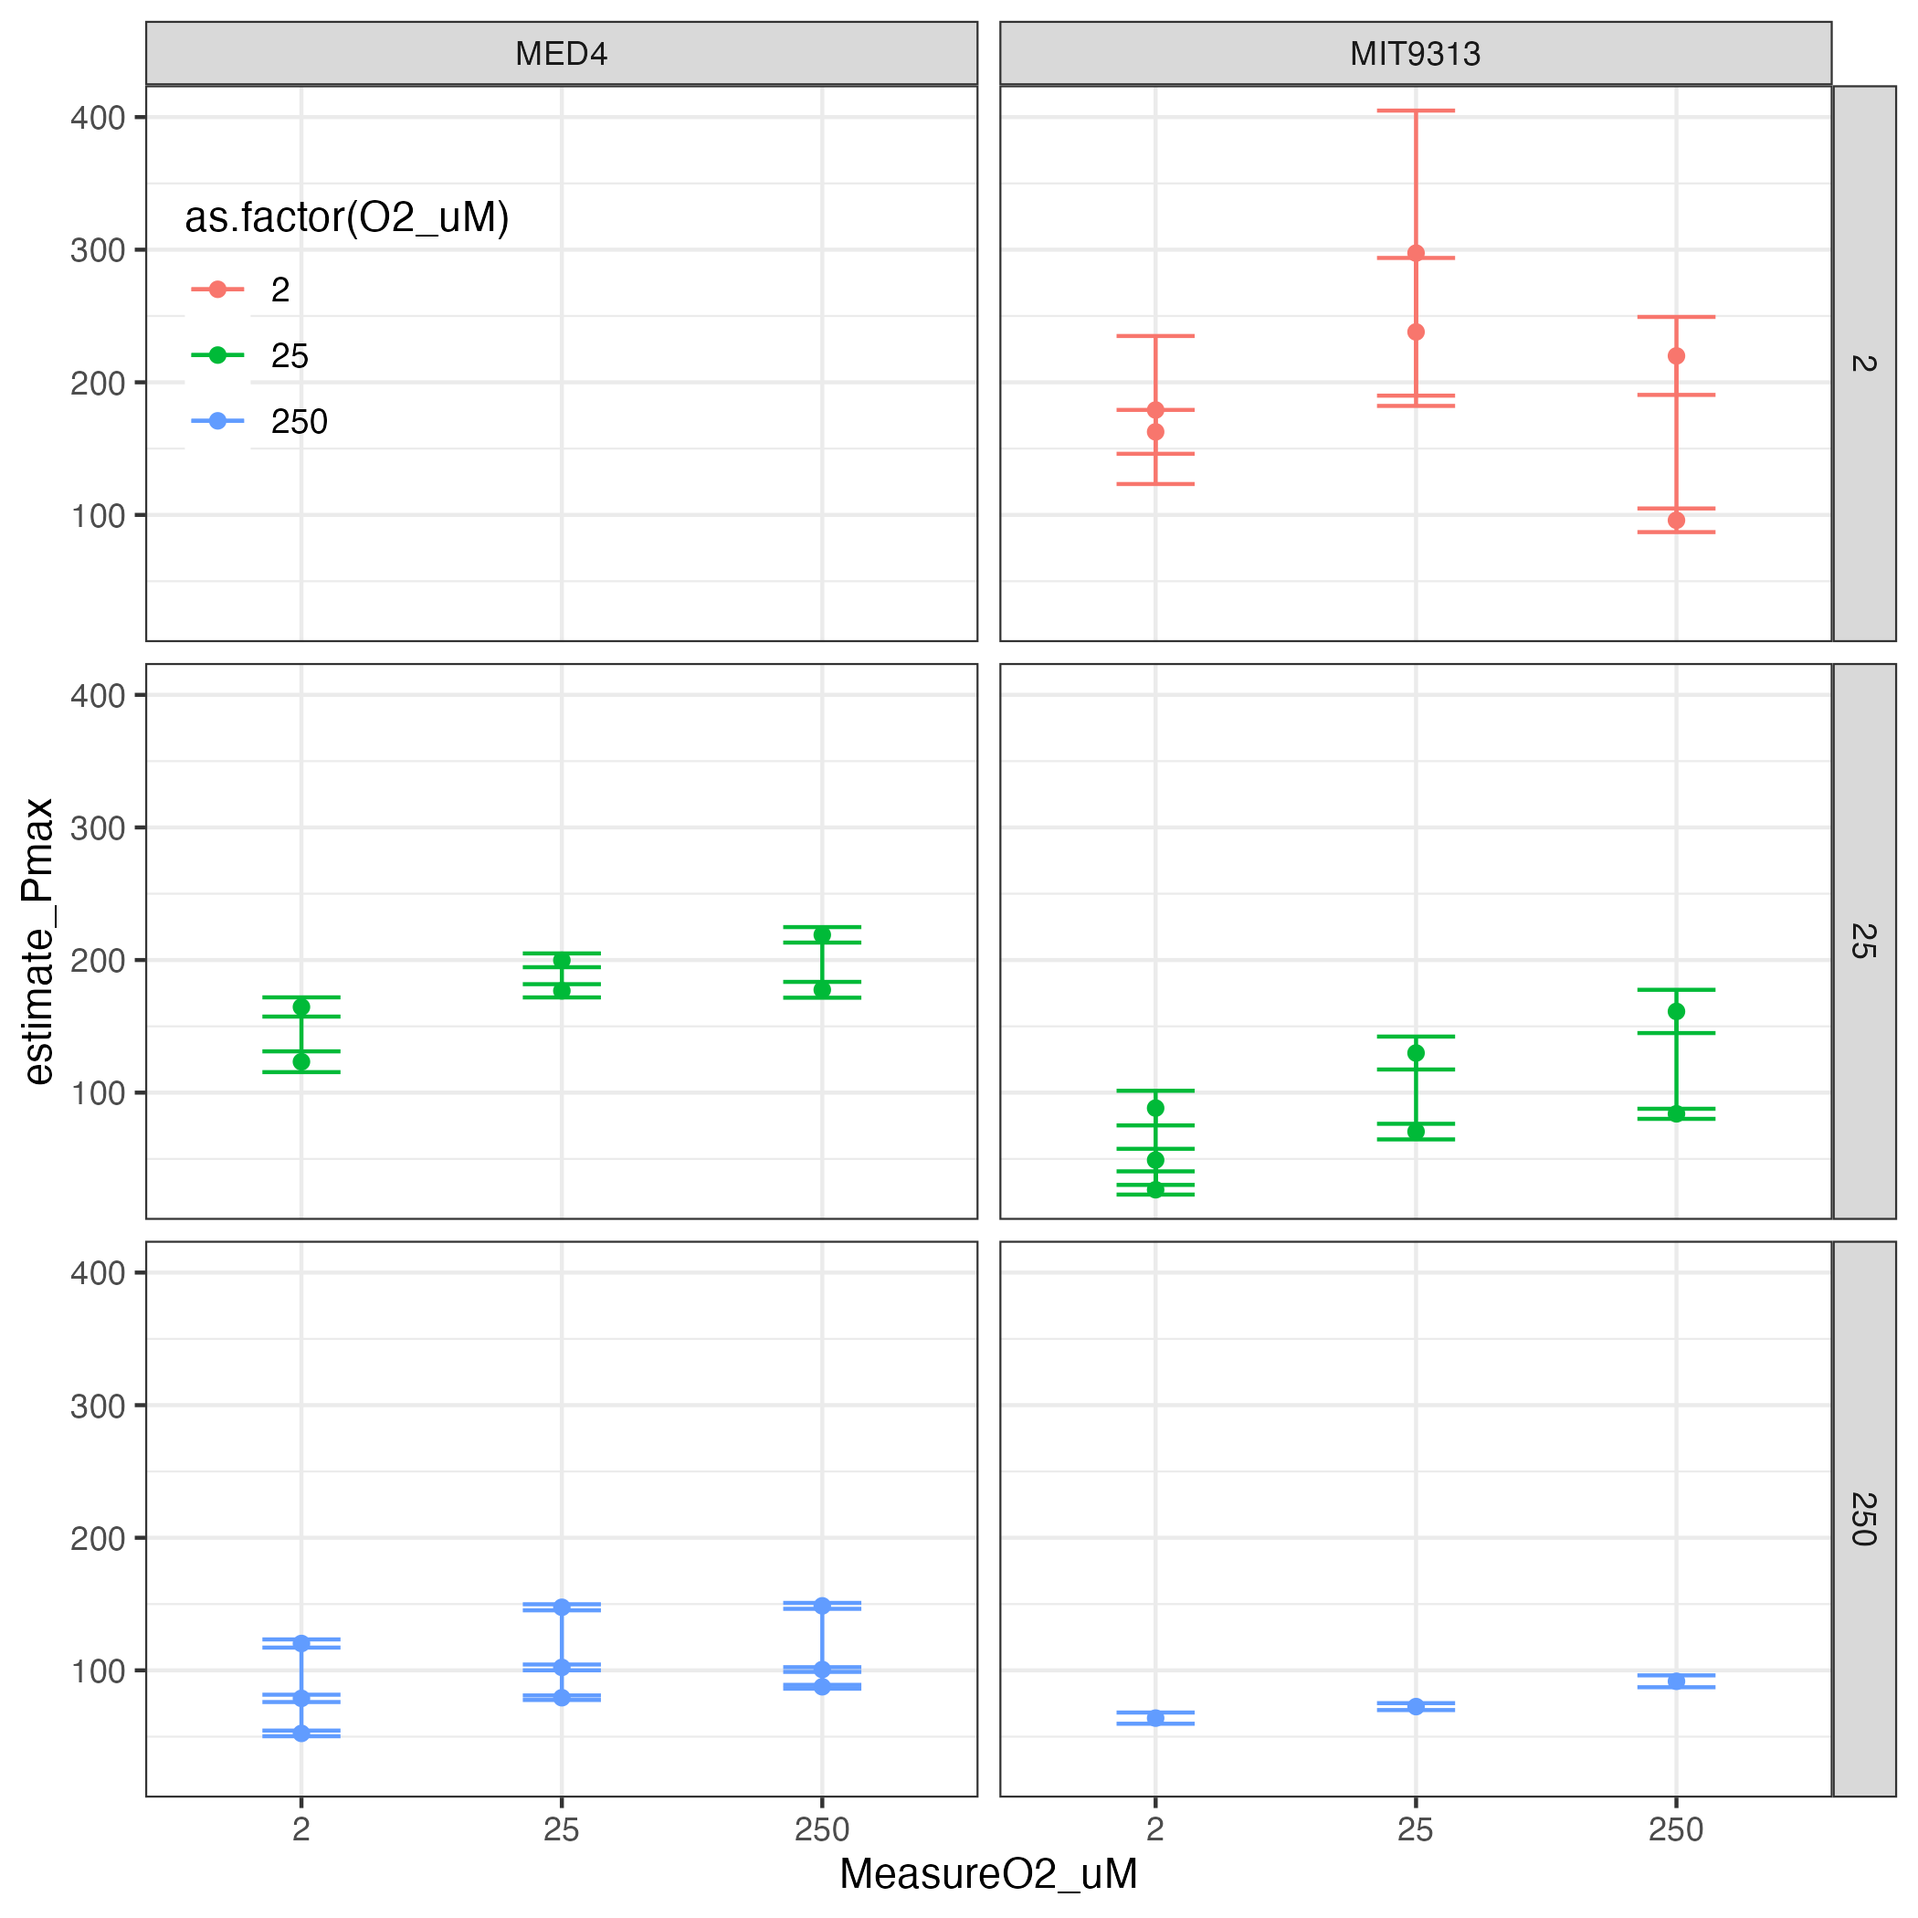
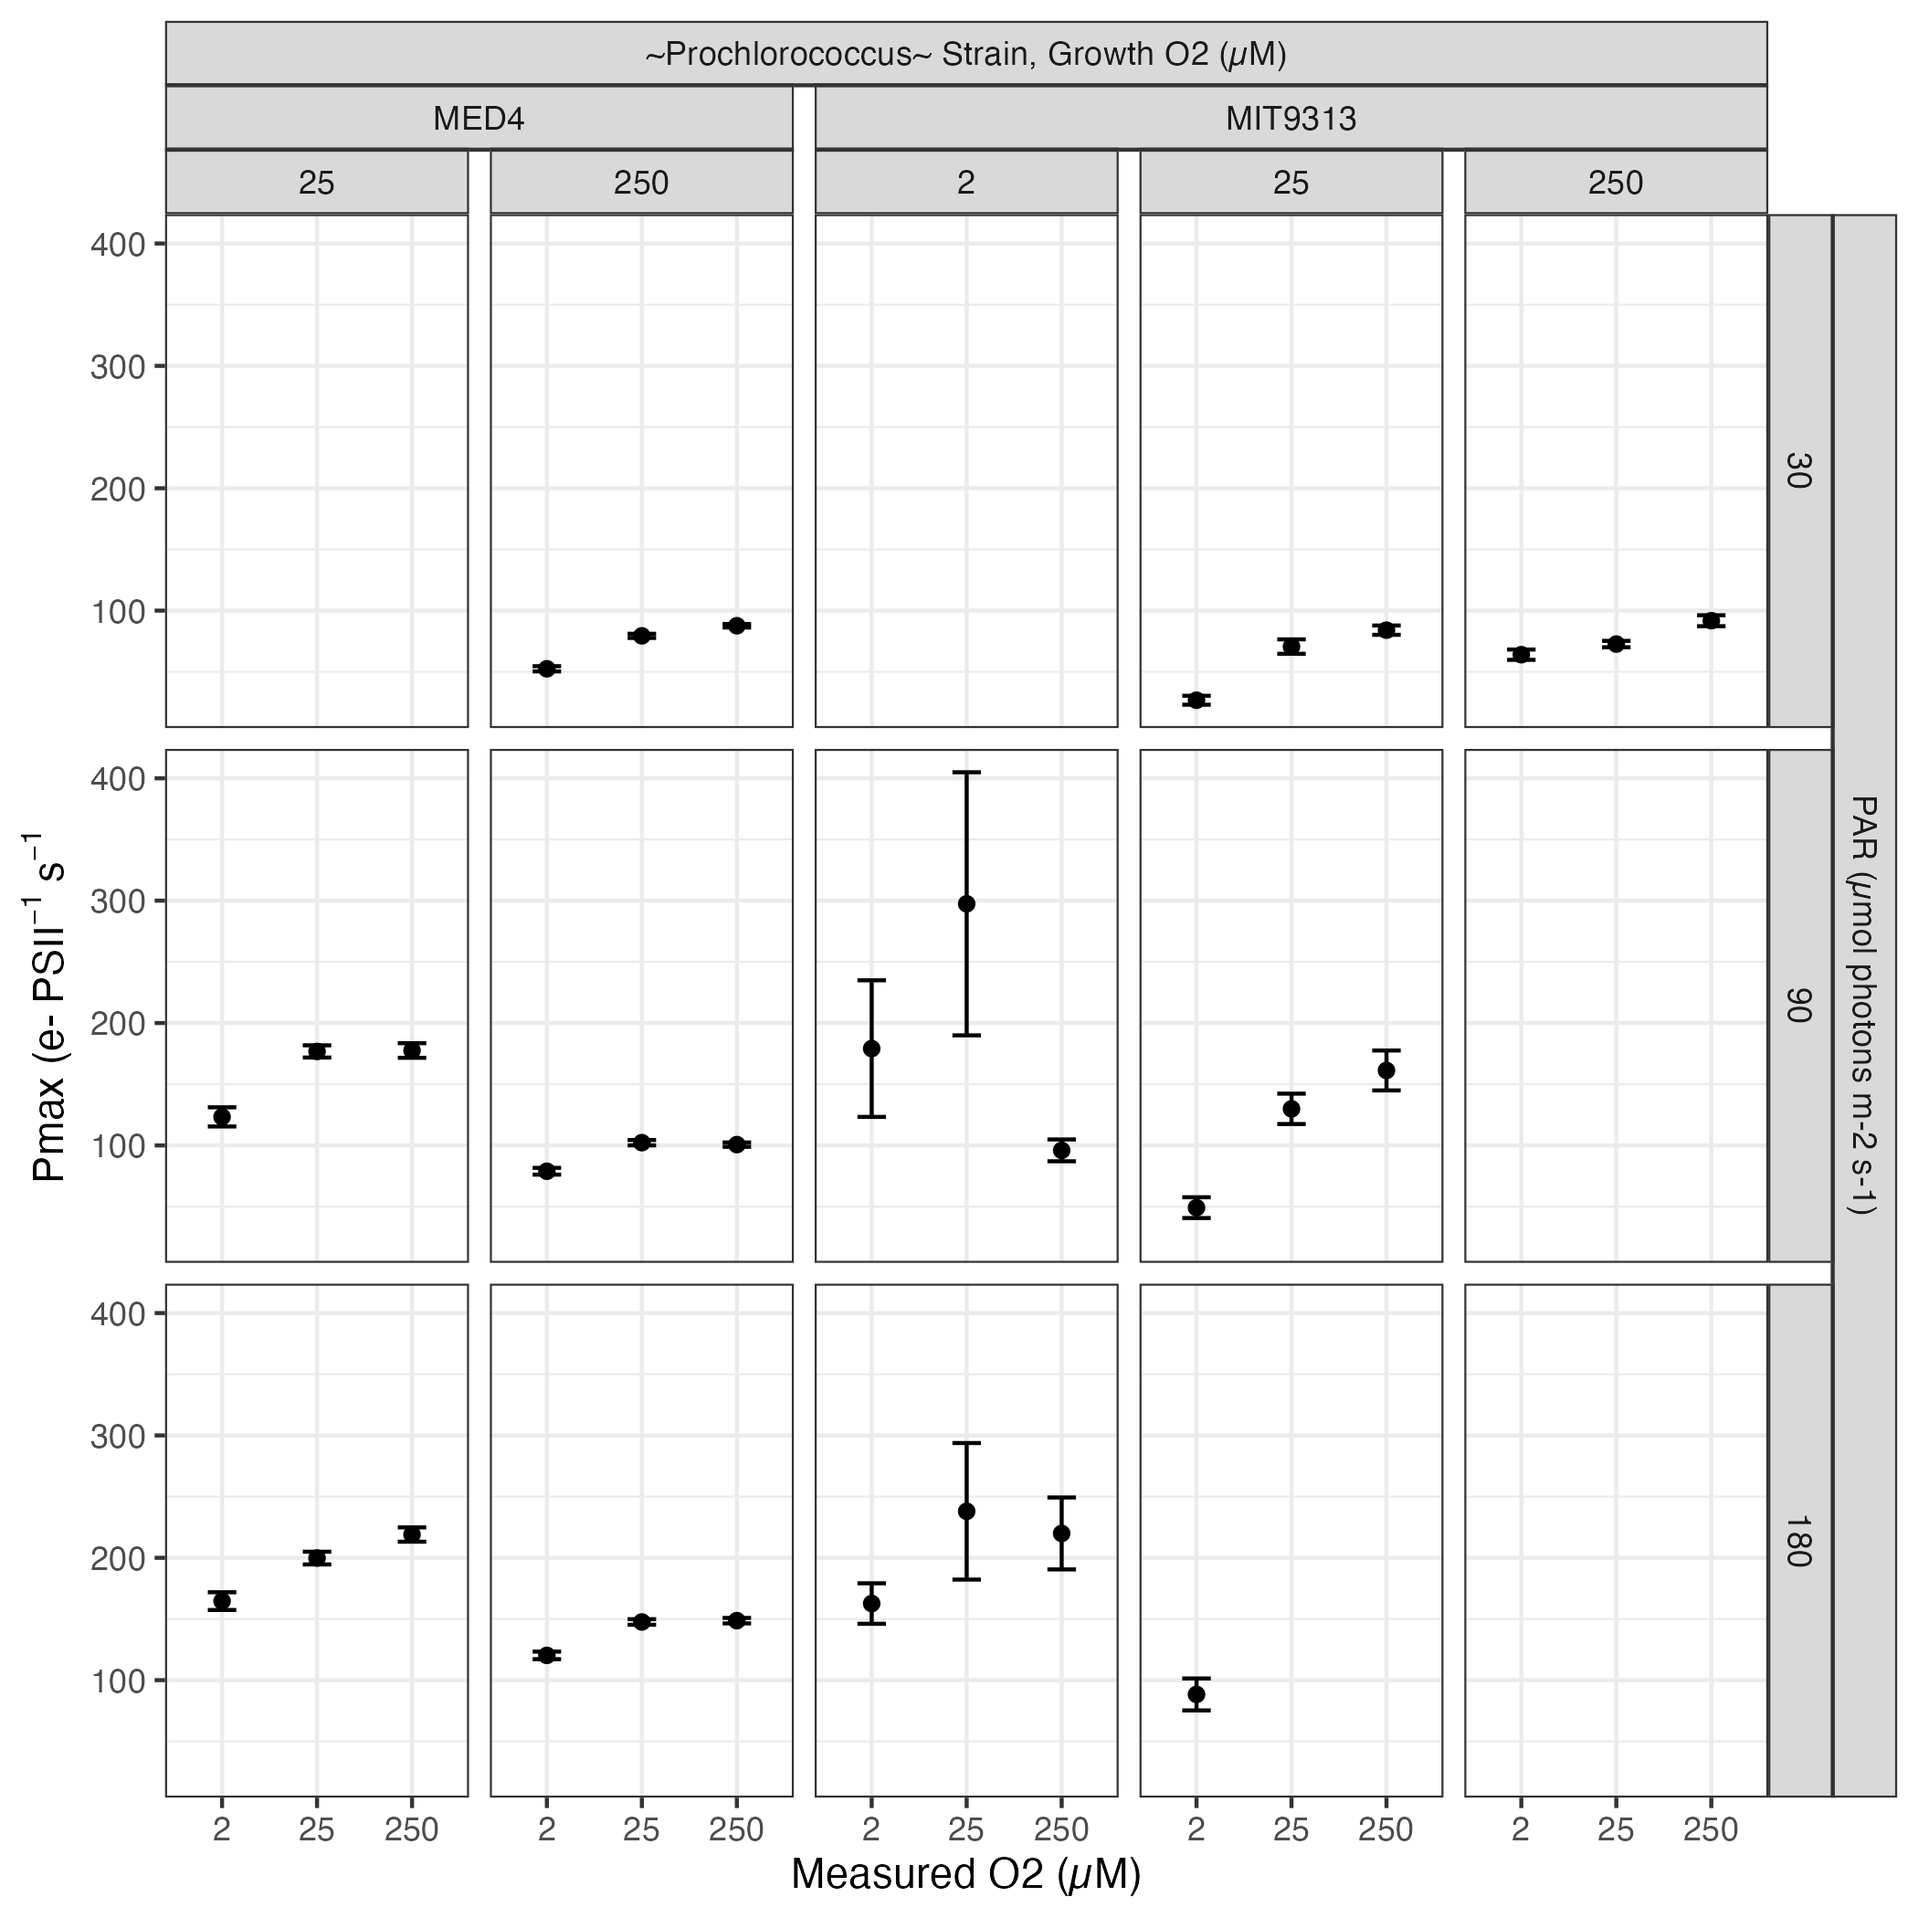
poster edits

diff --git a/Presentation/Nadeau_JulieThesisPoster.html b/Presentation/Nadeau_JulieThesisPoster.html
@@ -295,15 +295,15 @@ font-size: 20pt;
 <div class='poster_body'>
 <div id="introduction" class="section level1">
 <h1>Introduction</h1>
-Photosynthesis is the fundamental process in the biosphere. <span class="citation">[1]</span>
+<span class="citation">[1]</span>
 <em>Prochlorococcus</em>:
 <p class="forceBreak">
 </p>
 <ul>
 <li>Photosynthetic unicellular cyanobacterium</li>
-<li>Important in global carbon cycling, <em>Prochlorococcus</em> contributes significantly to primary production in the open oceans.</li>
-<li>Strains occupy a wide range of habitats.</li>
-<li>With climate change, ocean warming causing a decrease of oxygen solubility at the surface, <em>Prochlorococcus</em> is expected to benefit, increasing its distribution and global abundance.
+<li>Contributes most primary production in the open oceans.</li>
+<li>Different strains occupy a wide range of habitats, including Oxygen Minimum Zones.</li>
+<li>With climate change, ocean warming will benefit <em>Prochlorococcus</em>, but also cause decreased oxygen solubility.
 <div class="figure"><span style="display:block;" id="fig:prochlorococcusPoducingO2"></span>
 <img src="../code/Figures/prochlorococcusProducingO2.png" alt="The biological interactions of *Prochlorococcus* with oxygen and light... Adapted from (Cai et al., 2023)." width="80%" />
 <p class="caption">
@@ -315,7 +315,7 @@ Figure 1: The biological interactions of <em>Prochlorococcus</em> with oxygen an
 <h2>Objectives</h2>
 <ol style="list-style-type: decimal">
 <li>Determine whether <em>Prochlorococcus</em> strains are constitutively able to accomodate changes in oxygen, or whether they acclimate over a period of time to different levels of oxygen.</li>
-<li>To provide insights into the potential ecological niches of <em>Prochlorococcus</em> strains.</li>
+<li>Provide insights into the potential ecological niches of <em>Prochlorococcus</em> strains.</li>
 </ol>
 </div>
 </div>
@@ -324,16 +324,14 @@ Figure 1: The biological interactions of <em>Prochlorococcus</em> with oxygen an
 <strong>Bioptical Analysis of Growth Rates</strong>
 <p class="forceBreak">
 </p>
-Using a Multi-Cultivator, two strains of Prochlorococcus (MED4, MIT9313) are monitored for OD680 (Chlorophyll and scattering) and OD720 (cell scattering).
-under a 12h photoperiod and blue light (450 ± 45 nm). Combinations of:
+Using a Multi-Cultivator, two strains of Prochlorococcus (MED4, MIT9313) were monitored for OD680 (Chlorophyll and scattering) and OD720 (cell scattering).
+under 22°C, 12h photoperiod of blue light (450 ± 45 nm), and combinations of:
 <p class="forceBreak">
 </p>
 <ul>
 <li>Dissolved O<sub>2</sub>
 <ul>
-<li>230-280 µM (full O<sub>2</sub>)</li>
-<li>25-50 µM (intermediate O<sub>2</sub>)</li>
-<li>0.5-5.0 µM (low O<sub>2</sub>)
+<li>250, 25, 2 µM
 <p class="forceBreak">
 </p></li>
 </ul></li>
@@ -343,41 +341,39 @@ under a 12h photoperiod and blue light (450 ± 45 nm). Combinations of:
 <ul>
 <li>30, 90, 180 µmol photons m-2 s-1
 <p class="forceBreak">
-</p>
-all at 22°C, to each of 8 separate tubes.</li>
+</p></li>
 </ul></li>
 </ul>
 <strong>Bioptical Functional Measurements</strong>
 <p class="forceBreak">
 </p>
 <ul>
-<li>Expose samples to a series of increasing light levels and track a ‘light response’ curve of photosynthetic function of Photosystem II, using Solisense FRRf Instrument.</li>
-<li>Photosystem I and Photosystem II in parallel, using Dual-PAM-100 Instrument. The oxygen levels tested included:
-<ul>
-<li>230-280 µM (full O<sub>2</sub>)</li>
-<li>25-50 µM (intermediate O<sub>2</sub>)</li>
-<li>0.5-5.0 µM (low O<sub>2</sub>)</li>
-</ul></li>
+<li>Exposed samples under 250, 25, 2 µM O<sub>2</sub>, and a series of increasing light levels to track ‘light response’ curves of Photosystem II electron transport, using Solisense FRRf Instrument.</li>
+<li>Photosystem I and Photosystem II electron transport in parallel, using Dual-PAM-100 Instrument.</li>
 </ul>
 </div>
 <div id="results-discussion" class="section level1">
 <h1>Results &amp; Discussion</h1>
 <div class="figure"><span style="display:block;" id="fig:FittedLRC"></span>
-<img src="../code/Figures/FittedLRC.png" alt="Fitted LRC of PSII electron transport (e- PSII-1 s-1) vs measurement light (µmol photons m-2 s-1) for *Prochlorococcus* strains MIT9313 (Clade LLIV) and MED4 (and after growth under different combinations of light level (30, 90, 180 µmol photons m-2 s-1) and oxygen concentration (2, 25, 250 µM), derived from light response curve fits. The curves are differentiated by varying oxygen concentrations (colors), with different panels representing different combinations of light levels and growth oxygen concentrations." width="80%" />
+<img src="../code/Figures/FittedLRC.png" alt="Light Response Curves of PSII electron transport (e- PSII-1 s-1) vs measurement light (µmol photons m-2 s-1) for *Prochlorococcus* strains MED4 and MIT9313, after growth under combinations of light level (rows, 30, 90, 180 µmol photons m-2 s-1) and oxygen concentration (columns, 2, 25, 250 µM). The curves were measured under 2 (red), 25 (green), or 250 (blue) µM O~2~. Lines show Platt curve fits (citation)." width="80%" />
 <p class="caption">
-Figure 2: Fitted LRC of PSII electron transport (e- PSII-1 s-1) vs measurement light (µmol photons m-2 s-1) for <em>Prochlorococcus</em> strains MIT9313 (Clade LLIV) and MED4 (and after growth under different combinations of light level (30, 90, 180 µmol photons m-2 s-1) and oxygen concentration (2, 25, 250 µM), derived from light response curve fits. The curves are differentiated by varying oxygen concentrations (colors), with different panels representing different combinations of light levels and growth oxygen concentrations.
-</p>
-</div>
-<div class="figure"><span style="display:block;" id="fig:EstimatePmax"></span>
-<img src="../code/Figures/EstimatePmax.png" alt="Analysis of Maximum PSII Electron Transport Rate (Pmax) for *Prochlorococcus* MED4 (Clade HLI) and MIT9313 (Clade LLIV). Pmax,  derived from light response curve fits (FIGURE)), is plotted vs. measurement oxygen concentrations, with error bars representing the standard error of the estimate. Data is grouped by strain and growth light level, colours indicate different growth oxygen levels." width="80%" />
-<p class="caption">
-Figure 3: Analysis of Maximum PSII Electron Transport Rate (Pmax) for <em>Prochlorococcus</em> MED4 (Clade HLI) and MIT9313 (Clade LLIV). Pmax, derived from light response curve fits (FIGURE)), is plotted vs. measurement oxygen concentrations, with error bars representing the standard error of the estimate. Data is grouped by strain and growth light level, colours indicate different growth oxygen levels.
+Figure 2: Light Response Curves of PSII electron transport (e- PSII-1 s-1) vs measurement light (µmol photons m-2 s-1) for <em>Prochlorococcus</em> strains MED4 and MIT9313, after growth under combinations of light level (rows, 30, 90, 180 µmol photons m-2 s-1) and oxygen concentration (columns, 2, 25, 250 µM). The curves were measured under 2 (red), 25 (green), or 250 (blue) µM O<sub>2</sub>. Lines show Platt curve fits (citation).
 </p>
 </div>
 <ul>
-<li>Strain MED4 shows consistent Pmax values across different oxygen concentrations, indicating constitutive adaptation to varying oxygen levels.</li>
-<li>Strain MIT9313 shows differences in Pmax values, particularly between the lowest (2 µM) and highest (250 µM) oxygen concentrations, indicating acclimating adaptation to varying oxygen levels.</li>
-<li>These findings underscore the influence of oxygen concentrations on the PSII electron transport capacity of <em>Prochlorococcus</em> strains, with significant changes in Pmax values suggesting the cells’ capability to acclimate to different oxygen concentrations over time.</li>
+<li>MED4 and MIT9313 show significant short term responses of electron transport to decreasing oxygen.</li>
+<li>Growth under 2 µM O<sub>2</sub> diminishes the short term effects of changing measurement oxygen, indicating growth acclimation to oxygen status.</li>
+</ul>
+<div class="figure"><span style="display:block;" id="fig:EstimatePmax"></span>
+<img src="../code/Figures/EstimatePmax.png" alt="Maximum PSII Electron Transport Rate (Pmax) for *Prochlorococcus* MED4 and MIT9313, derived from light response curve fits, vs. measurement oxygen concentrations (error bars = SE). Data is grouped by strain and growth oxygen concentration (columns), and by growth light levels (rows)." width="80%" />
+<p class="caption">
+Figure 3: Maximum PSII Electron Transport Rate (Pmax) for <em>Prochlorococcus</em> MED4 and MIT9313, derived from light response curve fits, vs. measurement oxygen concentrations (error bars = SE). Data is grouped by strain and growth oxygen concentration (columns), and by growth light levels (rows).
+</p>
+</div>
+<ul>
+<li>Strain MED4 shows increasing Pmax values across increasing measurement oxygen concentrations, indicating short term responses to varying oxygen levels. Pmax also incresses with increasing light levels and with growth at 25 µM O<sub>2</sub>. Consistent with (citation).</li>
+<li>Strain MIT9313 shows interactive effects of measurement oxygen, growth oxygen concentration and growth light on Pmax values. particularly between the lowest (2 µM) and highest (250 µM) oxygen concentrations, indicating acclimating adaptation to varying oxygen levels.</li>
+<li>These findings underscore the influence of longterm growth and short term oxygen concentrations on the PSII electron transport capacity of <em>Prochlorococcus</em> strains, with significant changes in Pmax values indicating cellular capability to acclimate to different oxygen concentrations over time.</li>
 </ul>
 <div class="figure"><span style="display:block;" id="fig:DualPamLRC"></span>
 <img src="../code/Figures/ETRIvsETRII.png" alt="PSI electron transport (e- PSI^-1^ s^-1^) vs PSII electron transport (e- PSII^-1 s^-1) for *Prochlorococcus* strains MED4  and MIT9313 after growth under different combinations of light level (30, 90 µmol photons m^-2 s^-1) and oxygen concentration (2, 25, 250 µM). Mesurement under 2.5 (red), 25 (blue), or 250 (green) µM O~2~." width="80%" />
@@ -385,18 +381,22 @@ Figure 3: Analysis of Maximum PSII Electron Transport Rate (Pmax) for <em>Prochl
 Figure 4: PSI electron transport (e- PSI<sup>-1</sup> s<sup>-1</sup>) vs PSII electron transport (e- PSII^-1 s^-1) for <em>Prochlorococcus</em> strains MED4 and MIT9313 after growth under different combinations of light level (30, 90 µmol photons m^-2 s^-1) and oxygen concentration (2, 25, 250 µM). Mesurement under 2.5 (red), 25 (blue), or 250 (green) µM O<sub>2</sub>.
 </p>
 </div>
+<ul>
+<li>Directly comparing PSI to PSII electron transport shows that in MED4 growth under 25 µM O<sub>2</sub> decreases PSI electron transport.</li>
+<li>In contrast, in MIT9313, PSI electron transport remains more consistent across growth O<sub>2</sub> concentration.</li>
+</ul>
 </div>
 <div id="next-steps" class="section level1">
 <h1>Next Steps</h1>
 <ul>
 <li>Cell pellets were obtained by centrifuging samples, frozen in liquid nitrogen, and preserved in an -80°C freezer, facilitating future transcriptomic analyses.</li>
-<li>Whole Cell Absorbance Spectra were measured using an Olis Spectrophotometer, with oxygen levels tested ranging from 230-280 µM (full O2) to 0.5-5.0 µM (low O2), providing comprehensive data on cellular responses to varying oxygen concentrations.</li>
-<li>Chlorophyll a concentrations were determined for each sample using either the Turner Trilogy or Spectrophotometer, aiding in the characterization of photosynthetic pigment content and its relation to oxygen levels.</li>
+<li>Whole Cell Absorbance Spectra were measured using an Integrating Cavity Spectrophotometer, at 250 or 2 µM O<sub>2</sub>, to detect changes in the reduction status of electron carriers.</li>
+<li>Chlorophyll a concentrations were determined for each sample, aiding in the characterization of photosynthetic pigment content and its relation to oxygen levels.</li>
 </ul>
 </div>
 <div id="conclusion" class="section level1">
 <h1>Conclusion</h1>
-<p>Try <code>posterdown</code> out! Hopefully you like it!</p>
+<p><em>Prochlorococcus</em> shows both long and short term responses to oxygen.</p>
 </div>
 <div id="references" class="section level1 unnumbered">
 <h1>References</h1>
